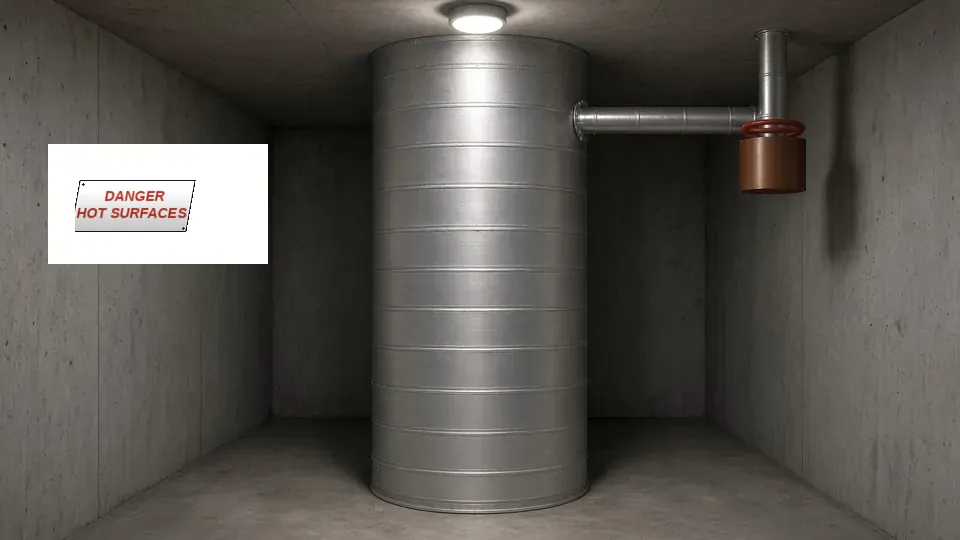
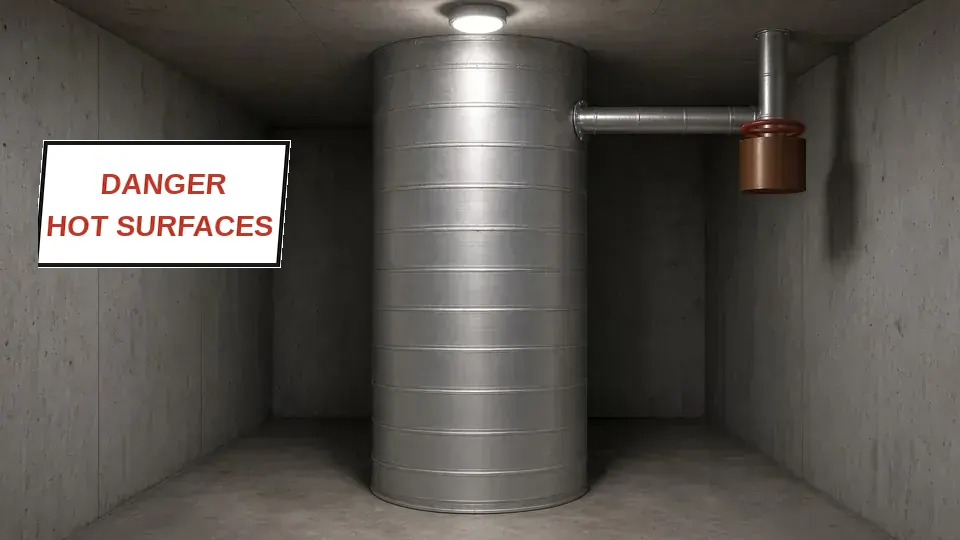
Part A8: pressurizer sign words fill the board
The white board was about twice the old lettering. The words are rebaked to the board.

Grok <noreply@x.ai>

Changed region(s): [[0.0312, 0.237, 0.3125, 0.5037]]

diff --git a/docs/audit/2026-11-21-rotation/PROGRESS.md b/docs/audit/2026-11-21-rotation/PROGRESS.md
@@ -14,7 +14,7 @@ Branch made by Claude: `g/nw-plates` + `c/crew-outage-1118` merged. Full suite a
 - A5 done · Pool ripples are three expanding annuli that shift a copy of the pool plate, not white rings. Plate change 0.36% (oddity band). The tool bag stays an event at 1.87%.
 - A6 done · Discharge status bar moved from (100, 150, 50, 8) onto the dark screen at (89, 128, 15, 6). MSIV bar moved from under the board onto its lower margin (364, 96, 64, 4). Freeze sign already sits on its wall board. Crops and the list are in visual/.
 - A7 done · hardhat-corridor is on camera aux. The corridor state plate is what shows. The yellow code hat on the turbine is deleted. Oddities do not flash.
-- A8 todo · Pressurizer sign
+- A8 done · Pressurizer words were a small board on a larger white sign. They are rebaked to fill it (about 124×64). Before and after crops are in visual/.
 - A9 todo · The Cherenkov glow
 - A10 todo · Intake screens
 - A11 todo · Shoot the before-and-after sheet
